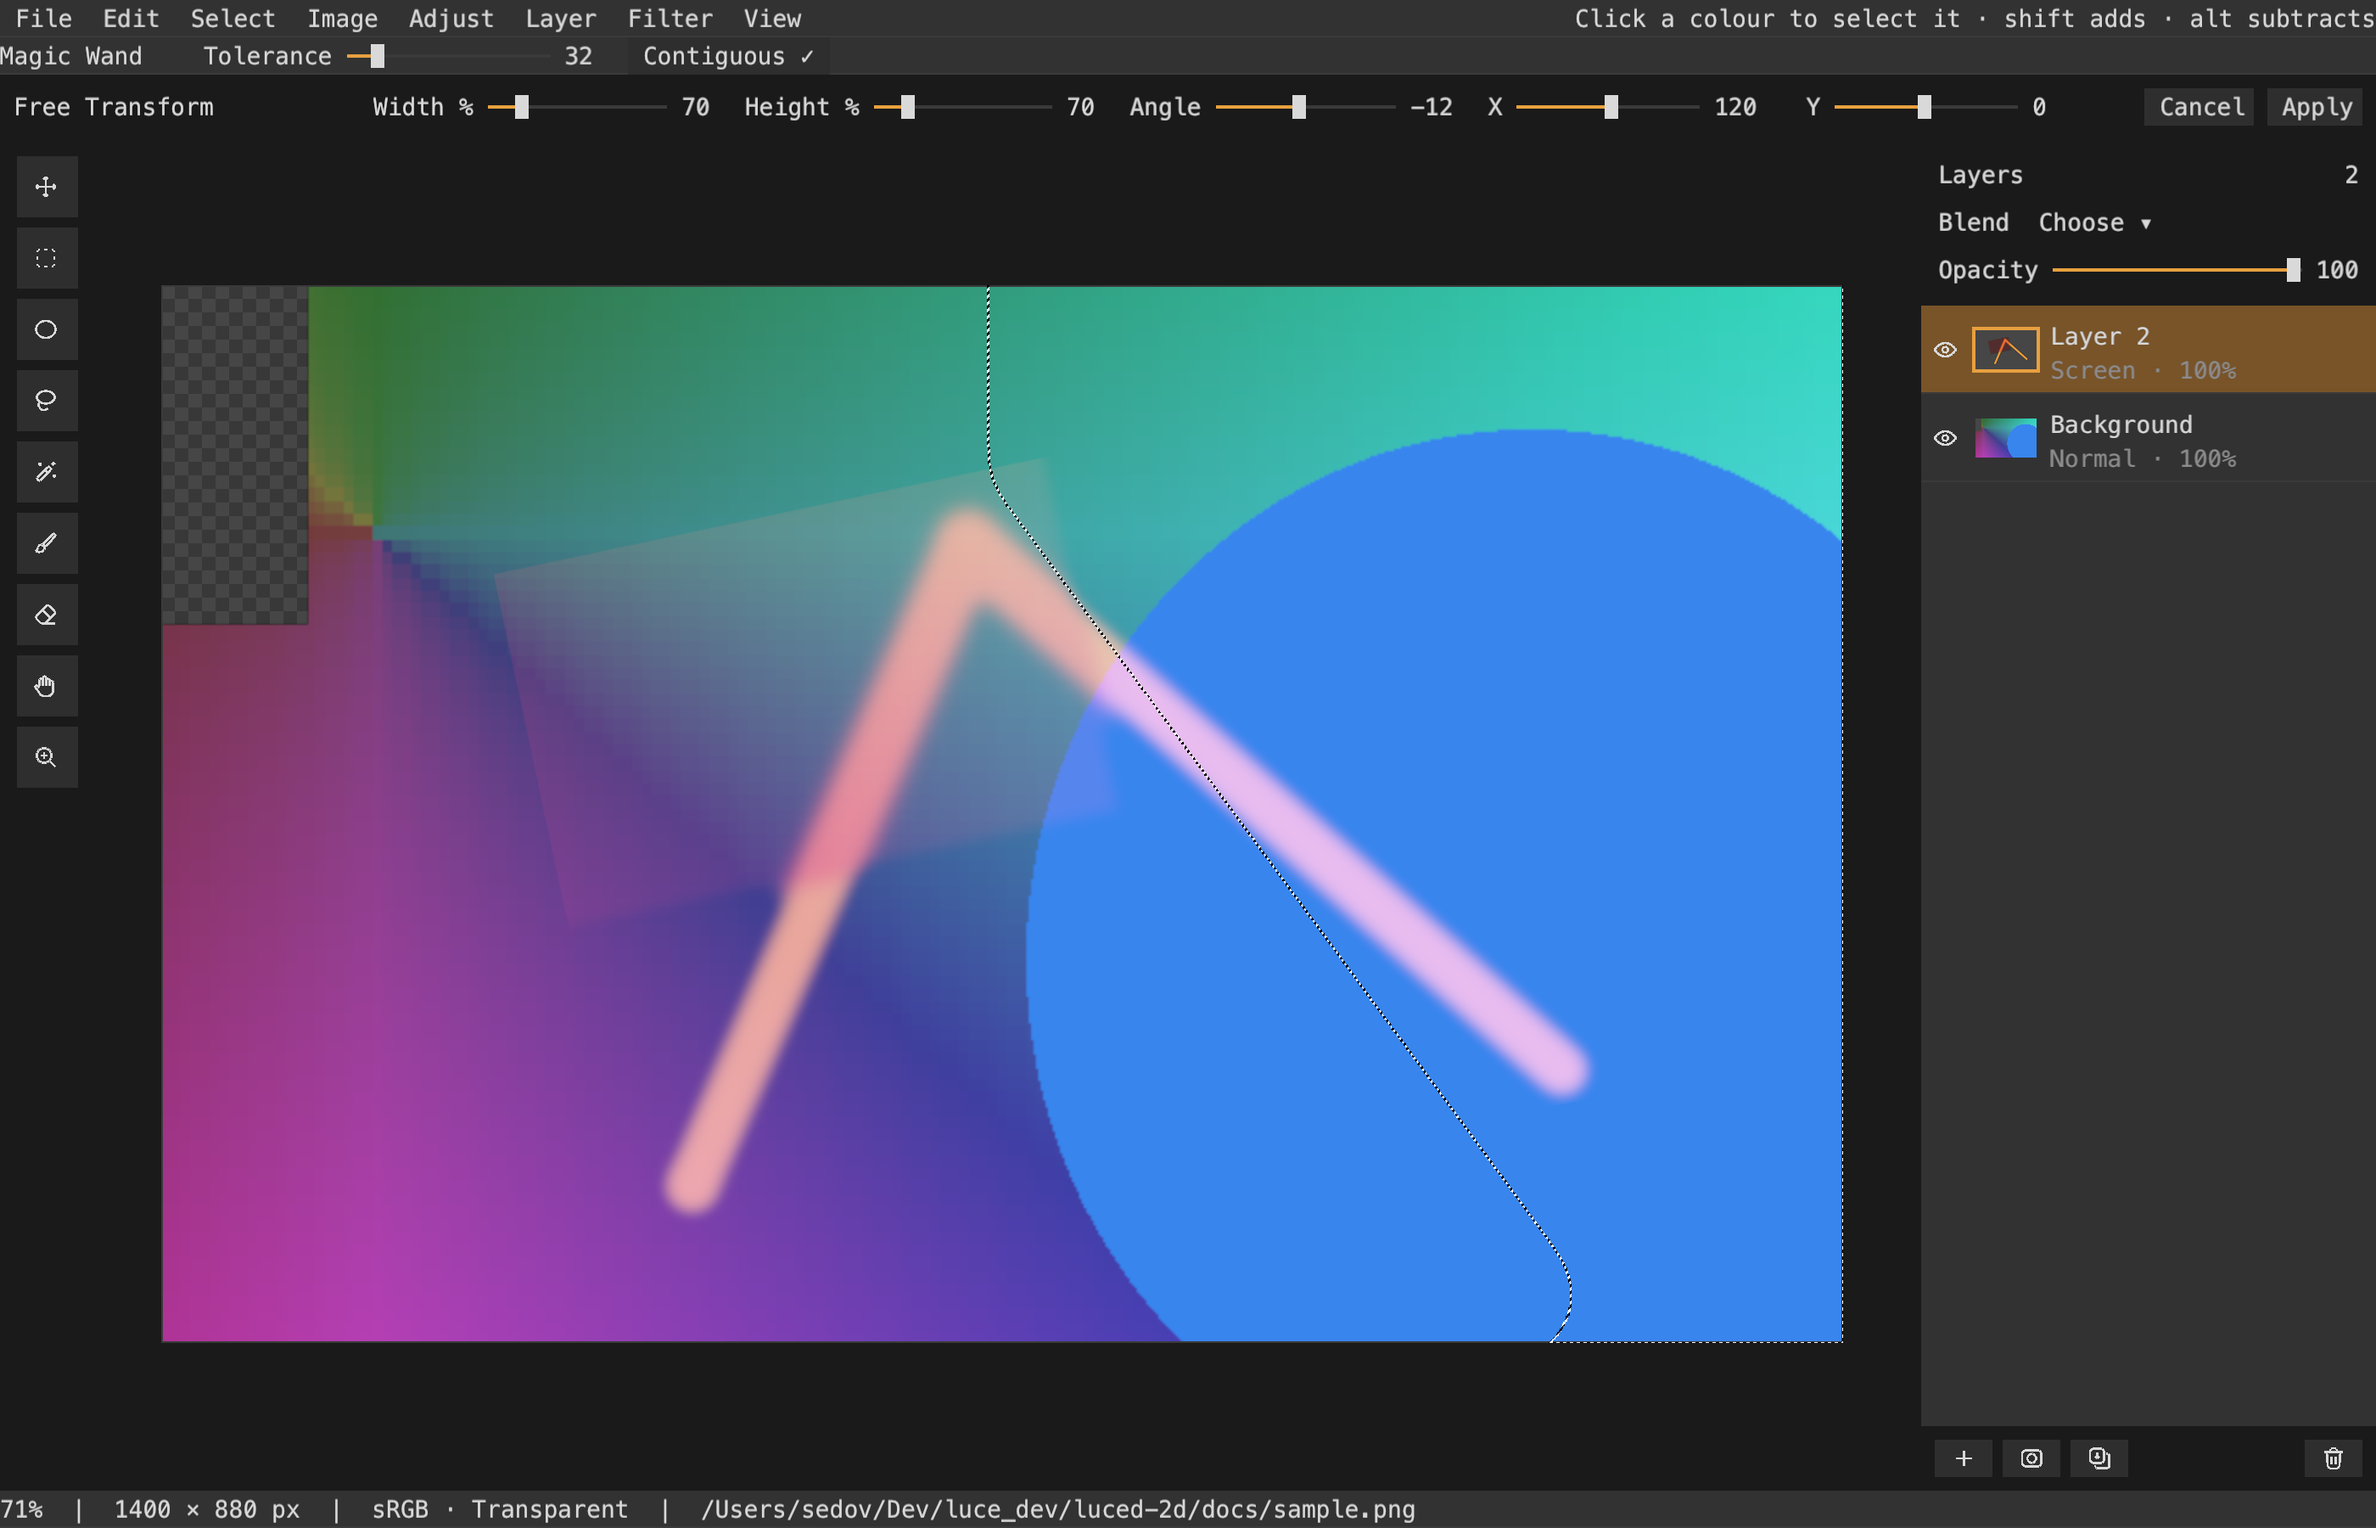
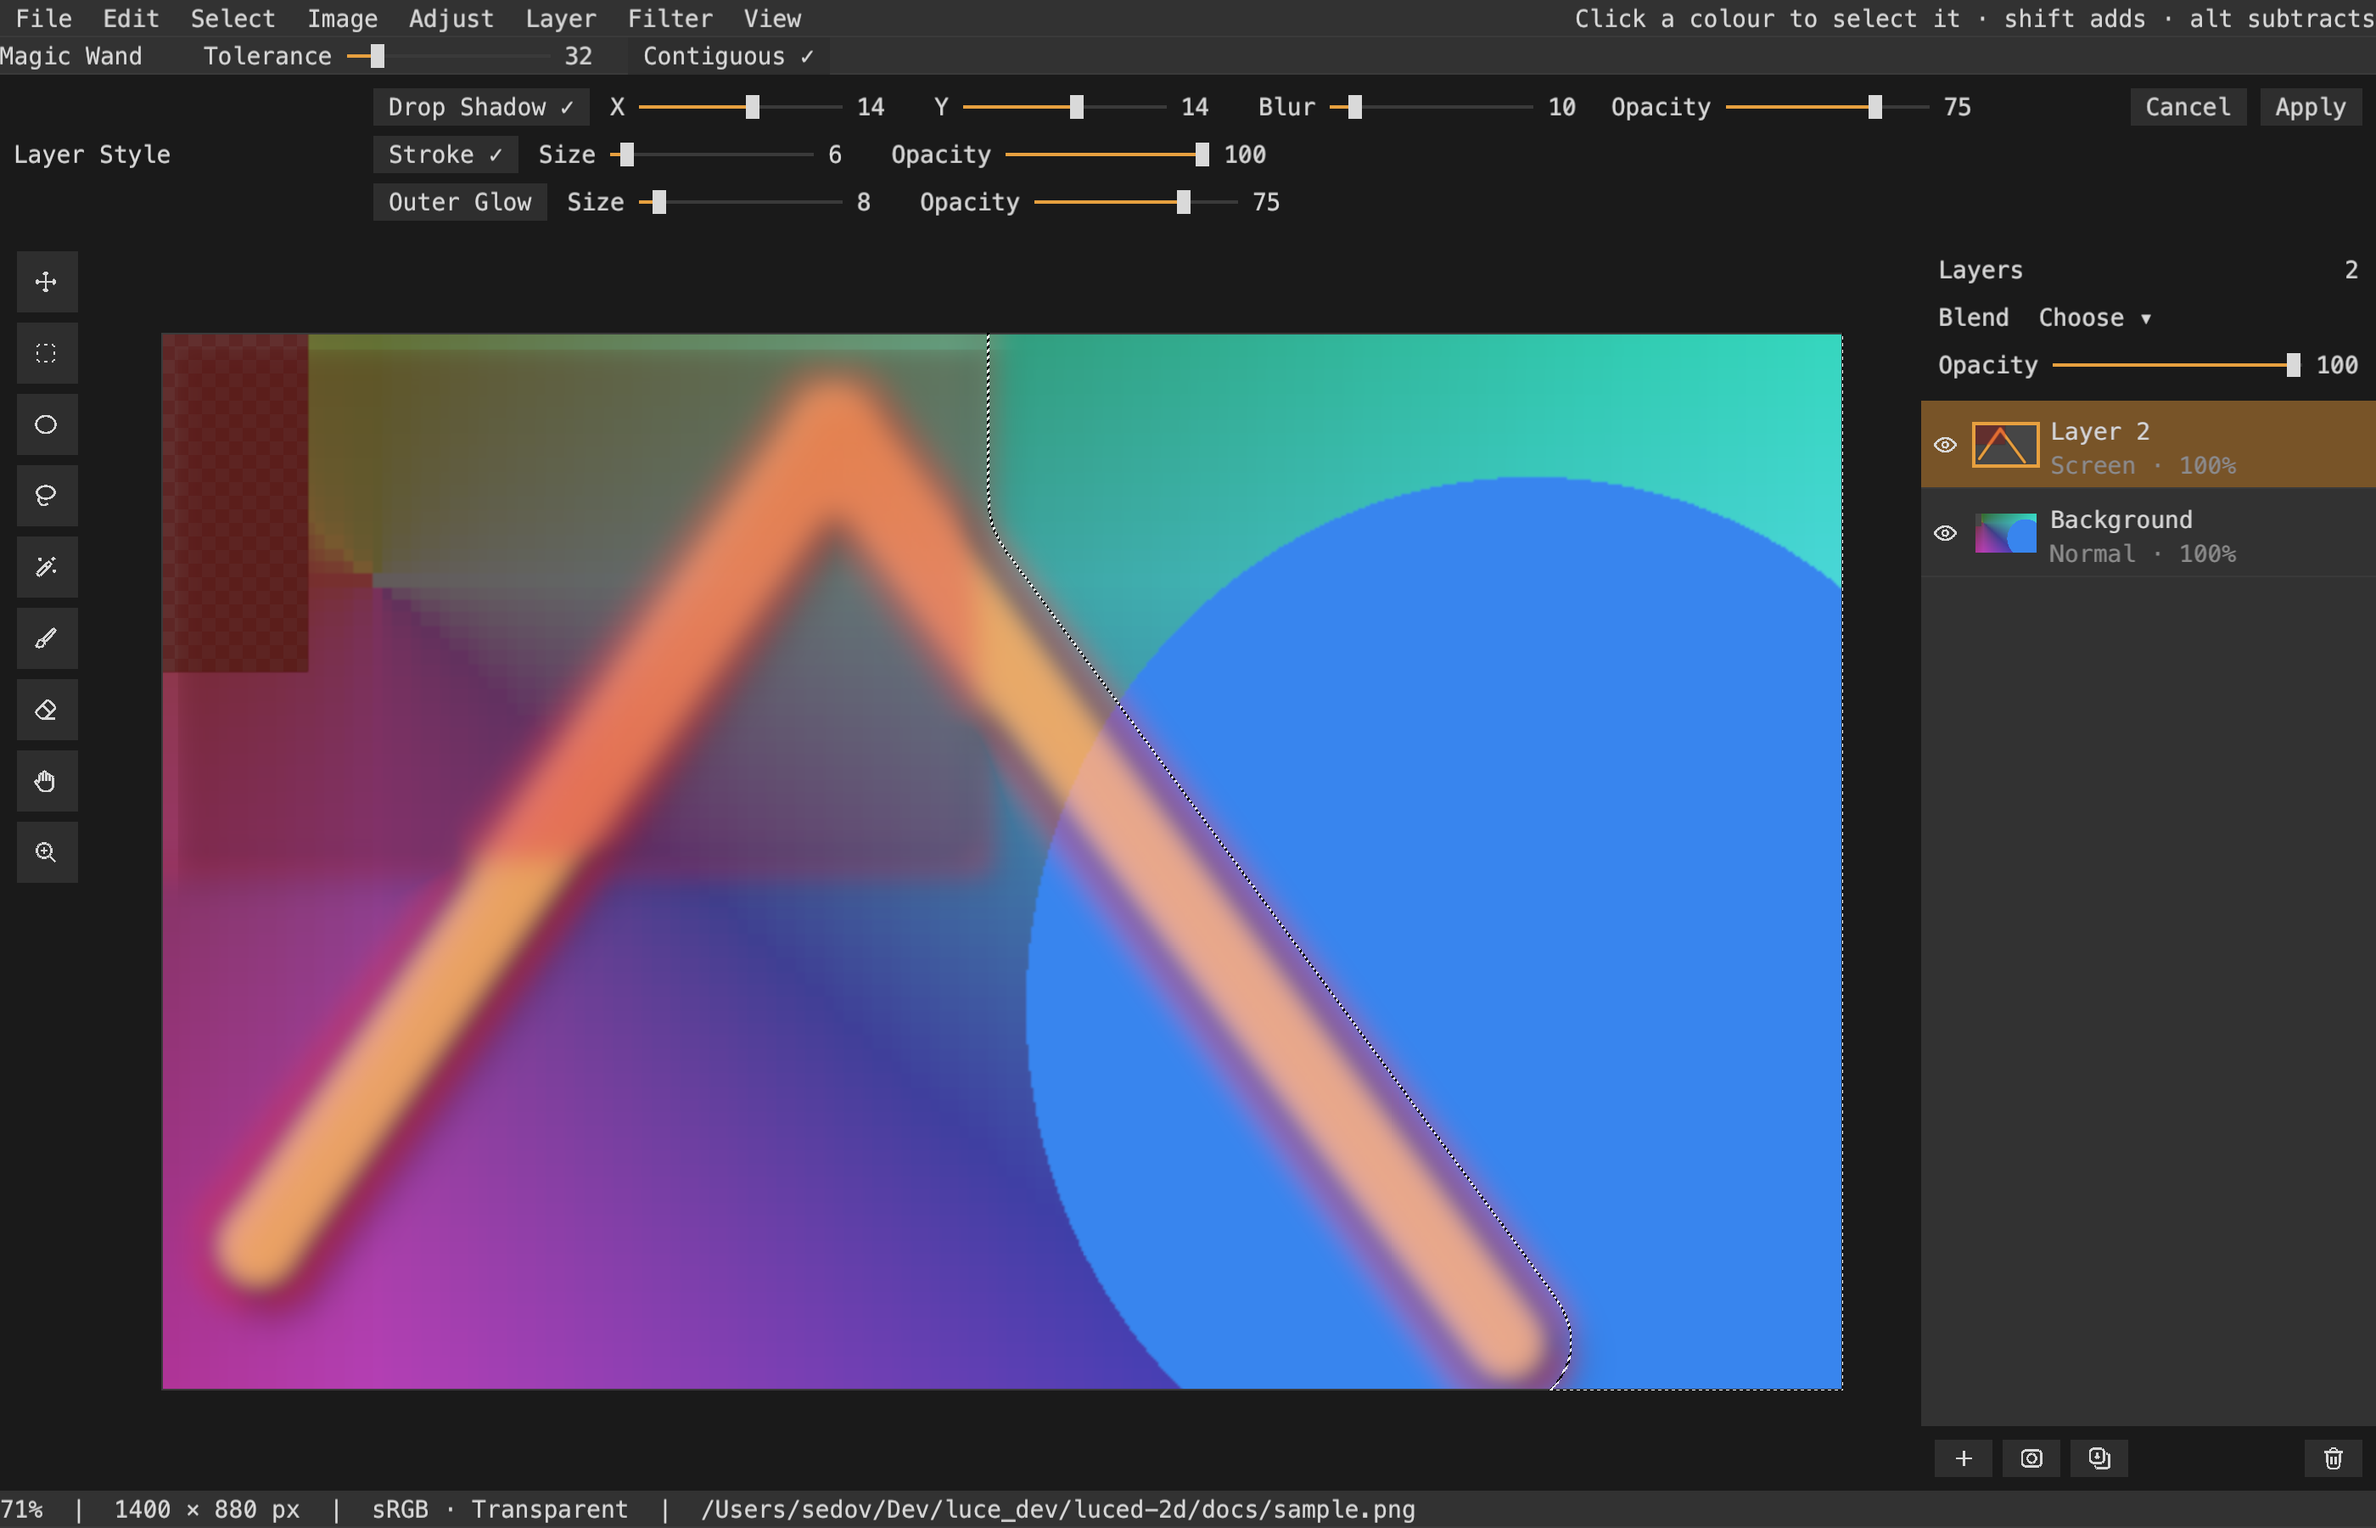
Layer Style bar: drop shadow, stroke and outer glow toggles and sliders, live
Claude-Session: https://claude.ai/code/session_01KSvf935cywg8wGYHPcyZf9

diff --git a/tools/preview.py b/tools/preview.py
@@ -108,11 +108,13 @@ pub func main(arguments: list[str]) -> int!:
             editor.workspace.adjust_selection(0, 12)
             editor.workspace.choose_tool("wand")
             editor.workspace.select_wand(1100.0, 700.0, 0)
-            editor.panels.free_transform()
-            editor.panels.adjust_sliders[9][0].set_value(70.0)
-            editor.panels.adjust_sliders[9][1].set_value(70.0)
-            editor.panels.adjust_sliders[9][2].set_value(-12.0)
-            editor.panels.adjust_sliders[9][3].set_value(120.0)
+            editor.panels.layer_style()
+            editor.panels.toggle_style(0)
+            editor.panels.adjust_sliders[10][0].set_value(14.0)
+            editor.panels.adjust_sliders[10][1].set_value(14.0)
+            editor.panels.adjust_sliders[10][2].set_value(10.0)
+            editor.panels.toggle_style(1)
+            editor.panels.adjust_sliders[10][4].set_value(6.0)
             editor.panels.preview()
             editor.panels.refresh()
         if captured:

diff --git a/README.md b/README.md
@@ -11,6 +11,8 @@ the order of work are in [docs/DESIGN.md](docs/DESIGN.md).
 ## What it does today
 
 - Opens PNG, JPEG, TIFF and EXR pictures as a document, or creates an empty one.
+- Layer › Layer Style: drop shadow, stroke and outer glow drawn under the
+  layer, non-destructively, edited live and saved in `.l2d`.
 - Layers with names, visibility, opacity and all 26 Photoshop blend modes,
   composed on the GPU with a cache
   that re-renders only the tiles an edit touches.
